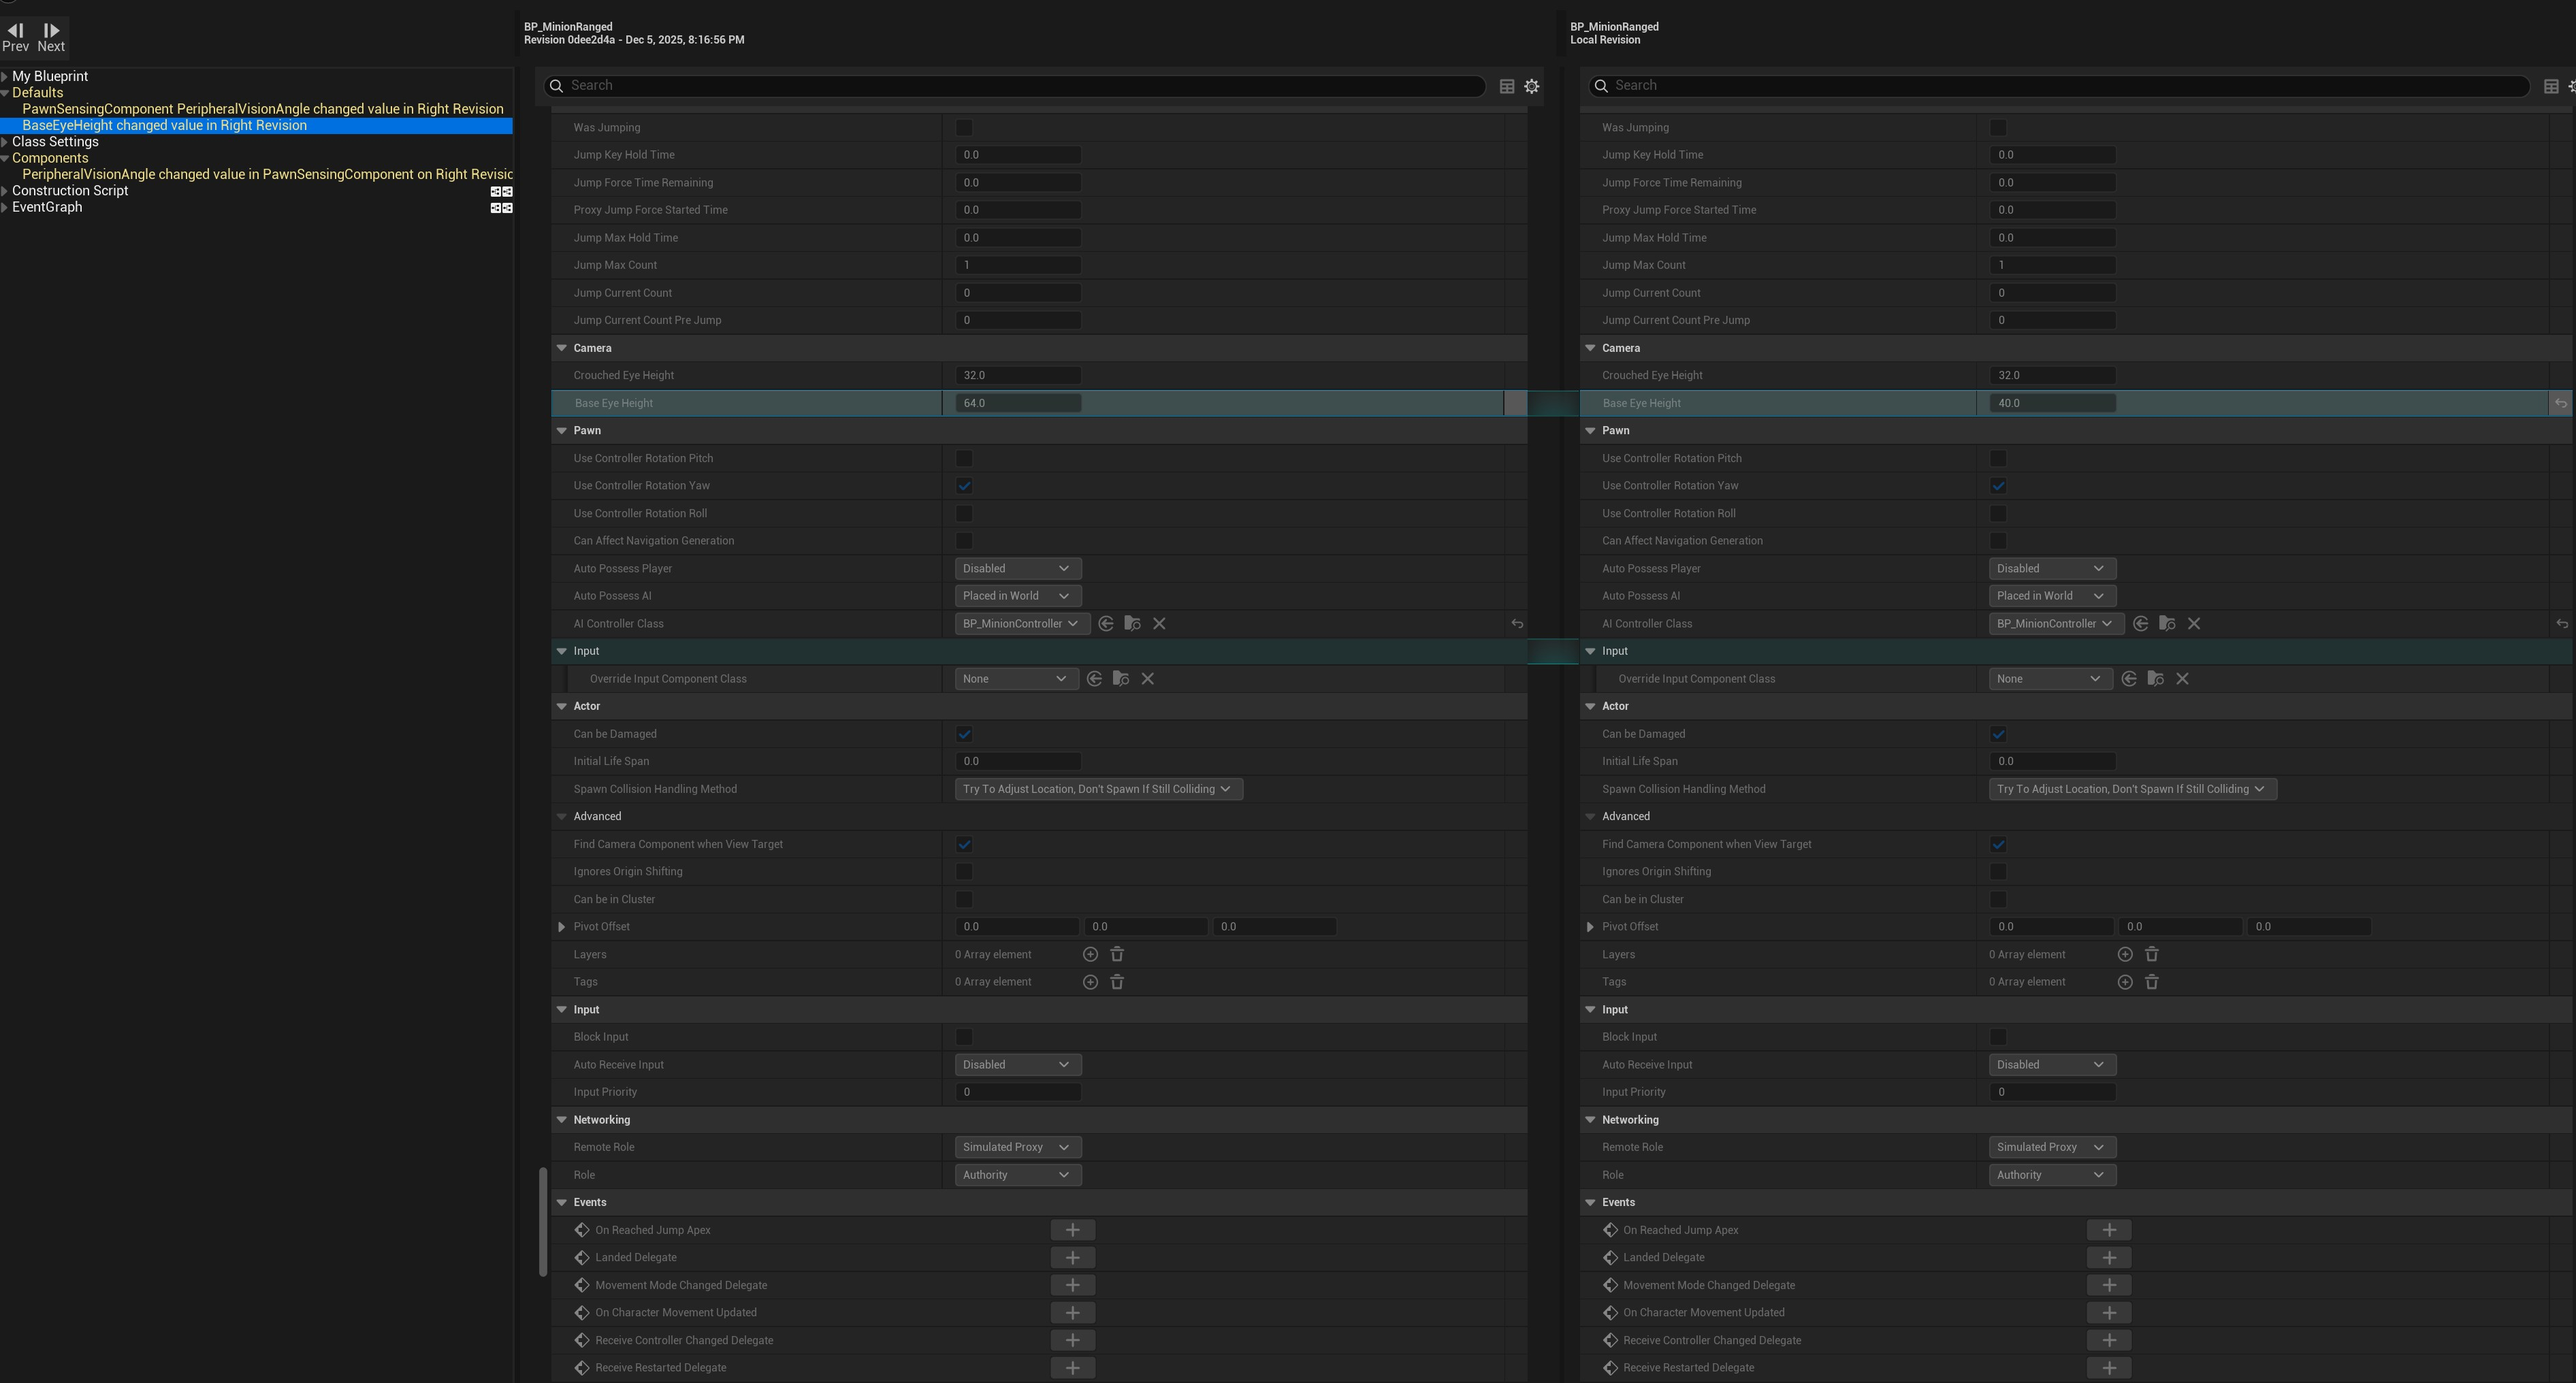
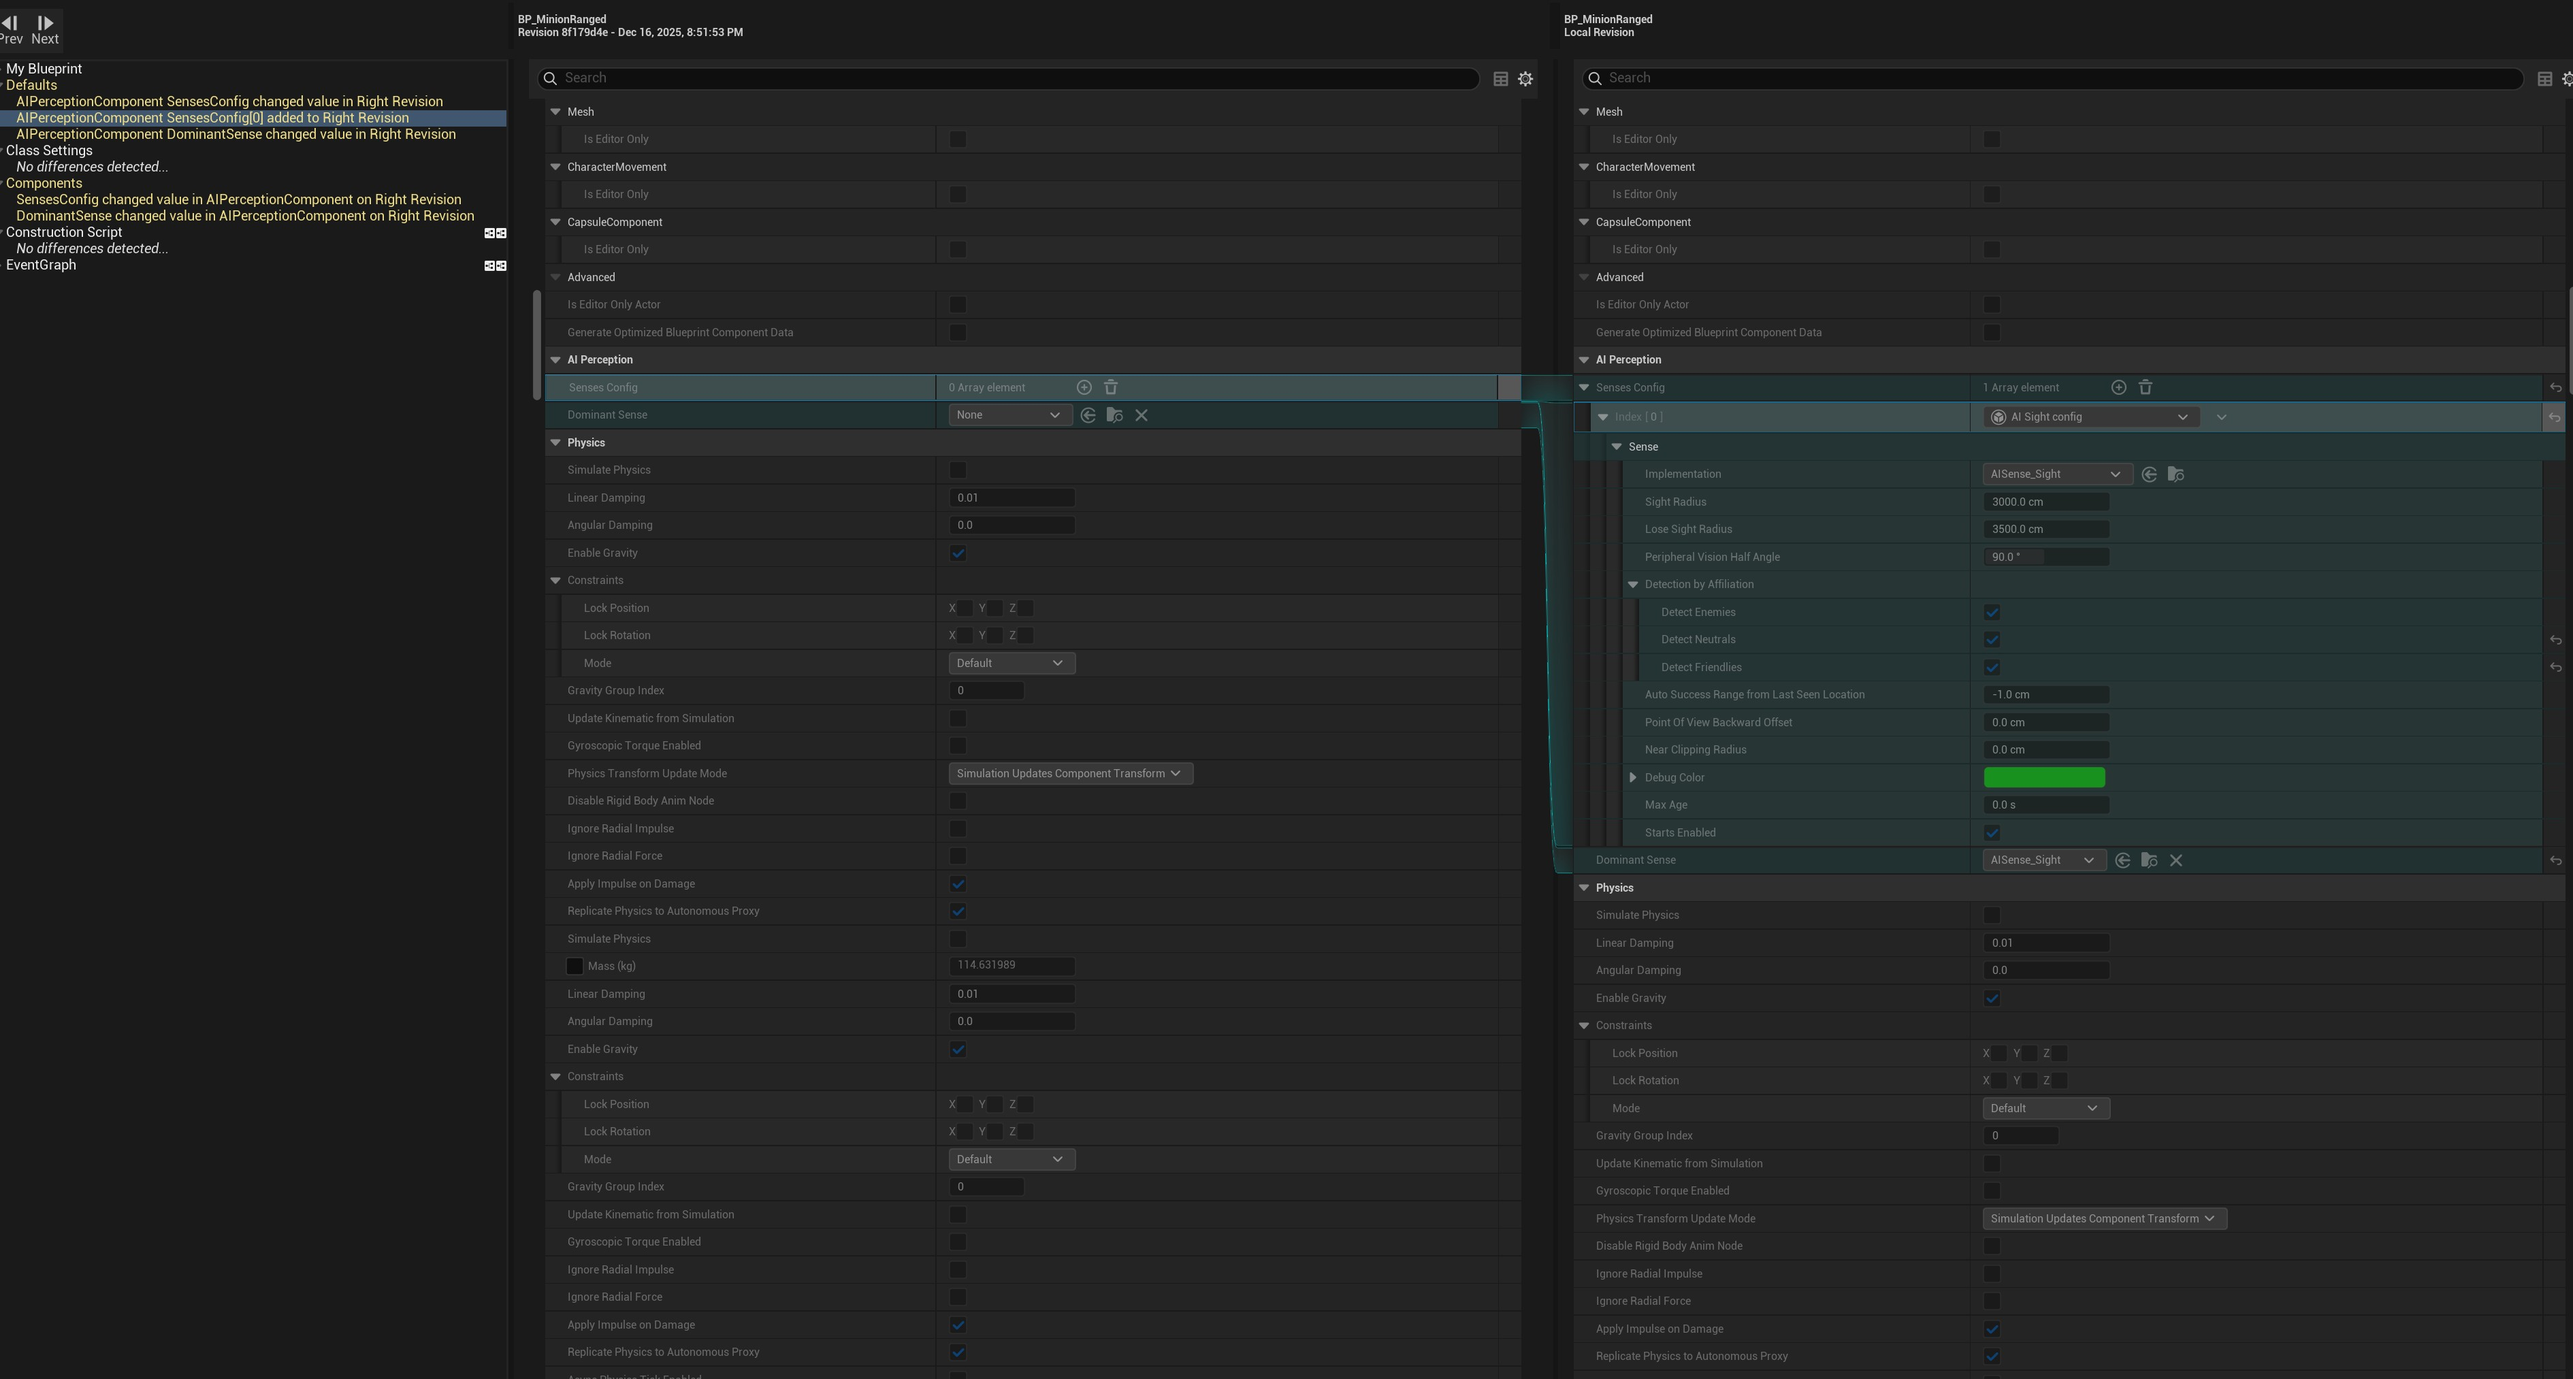
[Update] Using AI perception instead of pawnsensing component

diff --git a/Source/TomLoomanCourse/Private/AI/SAICharacter.cpp b/Source/TomLoomanCourse/Private/AI/SAICharacter.cpp
@@ -5,8 +5,7 @@
 
 #include "AIController.h"
 #include "BehaviorTree/BlackboardComponent.h"
-#include "Perception/PawnSensingComponent.h"
-
+#include "Perception/AIPerceptionComponent.h"
 
 // Sets default values
 ASAICharacter::ASAICharacter()
@@ -14,22 +13,36 @@ ASAICharacter::ASAICharacter()
 	// Set this character to call Tick() every frame.  You can turn this off to improve performance if you don't need it.
 	PrimaryActorTick.bCanEverTick = true;
 
-	PawnSensingComponent = CreateDefaultSubobject<UPawnSensingComponent>("PawnSensingComponent");
+	AIPerceptionComponent = CreateDefaultSubobject<UAIPerceptionComponent>("inherited");
 }
 
 void ASAICharacter::PostInitializeComponents()
 {
 	Super::PostInitializeComponents();
-	PawnSensingComponent->OnSeePawn.AddDynamic(this, &ASAICharacter::OnPawnSeen);
+	if (AIPerceptionComponent)
+	{
+		AIPerceptionComponent->OnTargetPerceptionUpdated.AddDynamic(this, &ASAICharacter::OnTargetPerceptionUpdated);
+	}
 }
 
-void ASAICharacter::OnPawnSeen(APawn* Pawn)
+void ASAICharacter::OnTargetPerceptionUpdated(AActor* Actor, FAIStimulus Stimulus)
 {
-	if ( AAIController* AIC = Cast<AAIController>(GetController()))
+	UE_LOG(LogTemp, Warning, TEXT("Target updated %s"), *Actor->GetName());
+	APawn* Pawn = Cast<APawn>(Actor);
+	if (!Pawn) return;
+
+	if (AAIController* AIC = Cast<AAIController>(GetController()))
 	{
 		UBlackboardComponent* Blackboard = AIC->GetBlackboardComponent();
-		Blackboard->SetValueAsObject(TargetActorKeyName, Pawn);
-
-		DrawDebugString(GetWorld(), GetActorLocation(), "PLAYER SPOTTED", nullptr, FColor::White, 4.0f, true);
+		if (Stimulus.WasSuccessfullySensed())
+		{
+			Blackboard->SetValueAsObject(TargetActorKeyName, Pawn);
+			DrawDebugString(GetWorld(), GetActorLocation(), "PLAYER SPOTTED", nullptr, FColor::White, 4.0f, true);
+		}
+		else
+		{
+			// optionally clear target when lost:
+			// Blackboard->ClearValue(TargetActorKeyName);
+		}
 	}
 }

diff --git a/Source/TomLoomanCourse/Public/AI/SAICharacter.h b/Source/TomLoomanCourse/Public/AI/SAICharacter.h
@@ -6,27 +6,27 @@
 #include "GameFramework/Character.h"
 #include "SAICharacter.generated.h"
 
-class UPawnSensingComponent;
+struct FAIStimulus;
+class UAIPerceptionComponent;
 
 UCLASS()
 class TOMLOOMANCOURSE_API ASAICharacter : public ACharacter
 {
 	GENERATED_BODY()
-
-public:
-	// Sets default values for this character's properties
-	ASAICharacter();
-
-
-	virtual void PostInitializeComponents() override;
-
+	
 protected:
 	UPROPERTY(EditAnywhere, BlueprintReadWrite, Category = "Config")
 	FName TargetActorKeyName = "TargetActor";
 	
 	UPROPERTY(VisibleAnywhere, BlueprintReadOnly, Category = "Components")
-	UPawnSensingComponent* PawnSensingComponent;
+	UAIPerceptionComponent* AIPerceptionComponent;
+
+public:
+	// Sets default values for this character's properties
+	ASAICharacter();
+	
+	virtual void PostInitializeComponents() override;
 	
 	UFUNCTION()
-	void OnPawnSeen(APawn* Pawn);
+	void OnTargetPerceptionUpdated(AActor* Actor, FAIStimulus Stimulus);
 };

diff --git a/Source/TomLoomanCourse/Private/SCharacter.cpp b/Source/TomLoomanCourse/Private/SCharacter.cpp
@@ -16,6 +16,7 @@
 #include "Components/CapsuleComponent.h"
 #include "GameFramework/CharacterMovementComponent.h"
 #include "Kismet/KismetMathLibrary.h"
+#include "Perception/AIPerceptionStimuliSourceComponent.h"
 
 // Sets default values
 ASCharacter::ASCharacter()
@@ -34,10 +35,11 @@ ASCharacter::ASCharacter()
 	InteractionComponent = CreateDefaultSubobject<USInteractionComponent>("InteractionComponent");
 
 	AttributesComponent = CreateDefaultSubobject<USAttributesComponent>("AttributesComponent");
+
+	StimuliSourceComponent = CreateDefaultSubobject<UAIPerceptionStimuliSourceComponent>("inherited");
 	
 	GetCharacterMovement()->bOrientRotationToMovement = true;
 	bUseControllerRotationYaw = false;
-	
 }
 
 void ASCharacter::Move(const FInputActionValue& Value)

diff --git a/Source/TomLoomanCourse/Public/SCharacter.h b/Source/TomLoomanCourse/Public/SCharacter.h
@@ -8,6 +8,7 @@
 #include "SCharacter.generated.h"
 
 
+class UAIPerceptionStimuliSourceComponent;
 class UNiagaraSystem;
 class USAttributesComponent;
 class ASProjectileBase;
@@ -59,6 +60,9 @@ protected:
 
 	UPROPERTY(VisibleAnywhere, BlueprintReadOnly)
 	USAttributesComponent* AttributesComponent;
+
+	UPROPERTY(VisibleAnywhere,BlueprintReadOnly)
+	UAIPerceptionStimuliSourceComponent* StimuliSourceComponent;
 
 	/// ---------- Other configs -------------- ////
 	UPROPERTY(VisibleAnywhere, BlueprintReadOnly, Category= "Config | Materials | Flash")

diff --git a/Source/TomLoomanCourse/Private/AI/SAIController.cpp b/Source/TomLoomanCourse/Private/AI/SAIController.cpp
@@ -3,10 +3,6 @@
 
 #include "AI/SAIController.h"
 
-#include "BehaviorTree/BlackboardComponent.h"
-#include "Kismet/GameplayStatics.h"
-
-
 // Sets default values
 ASAIController::ASAIController()
 {
